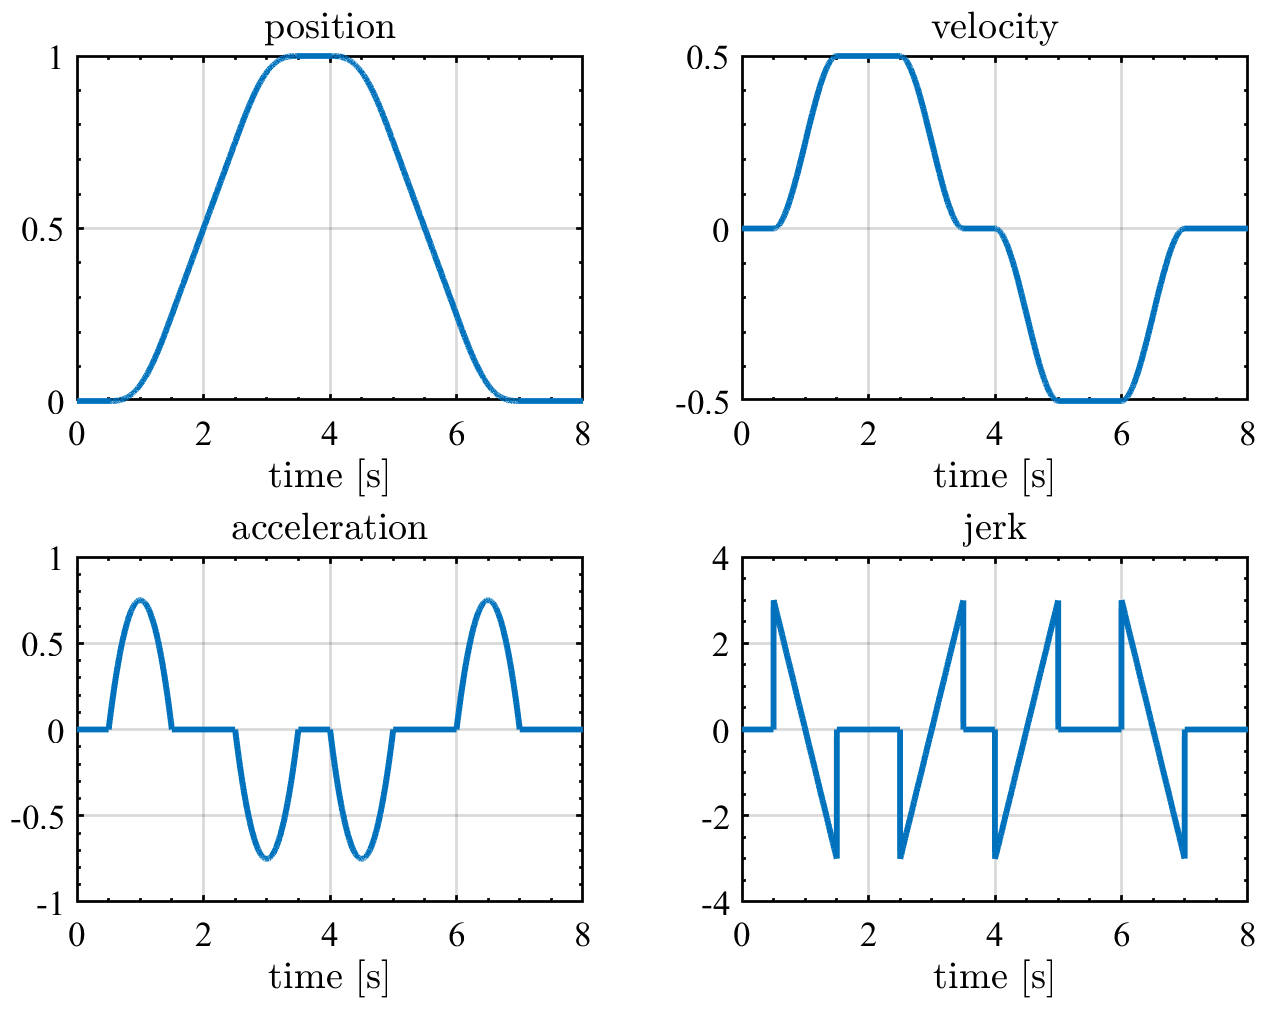
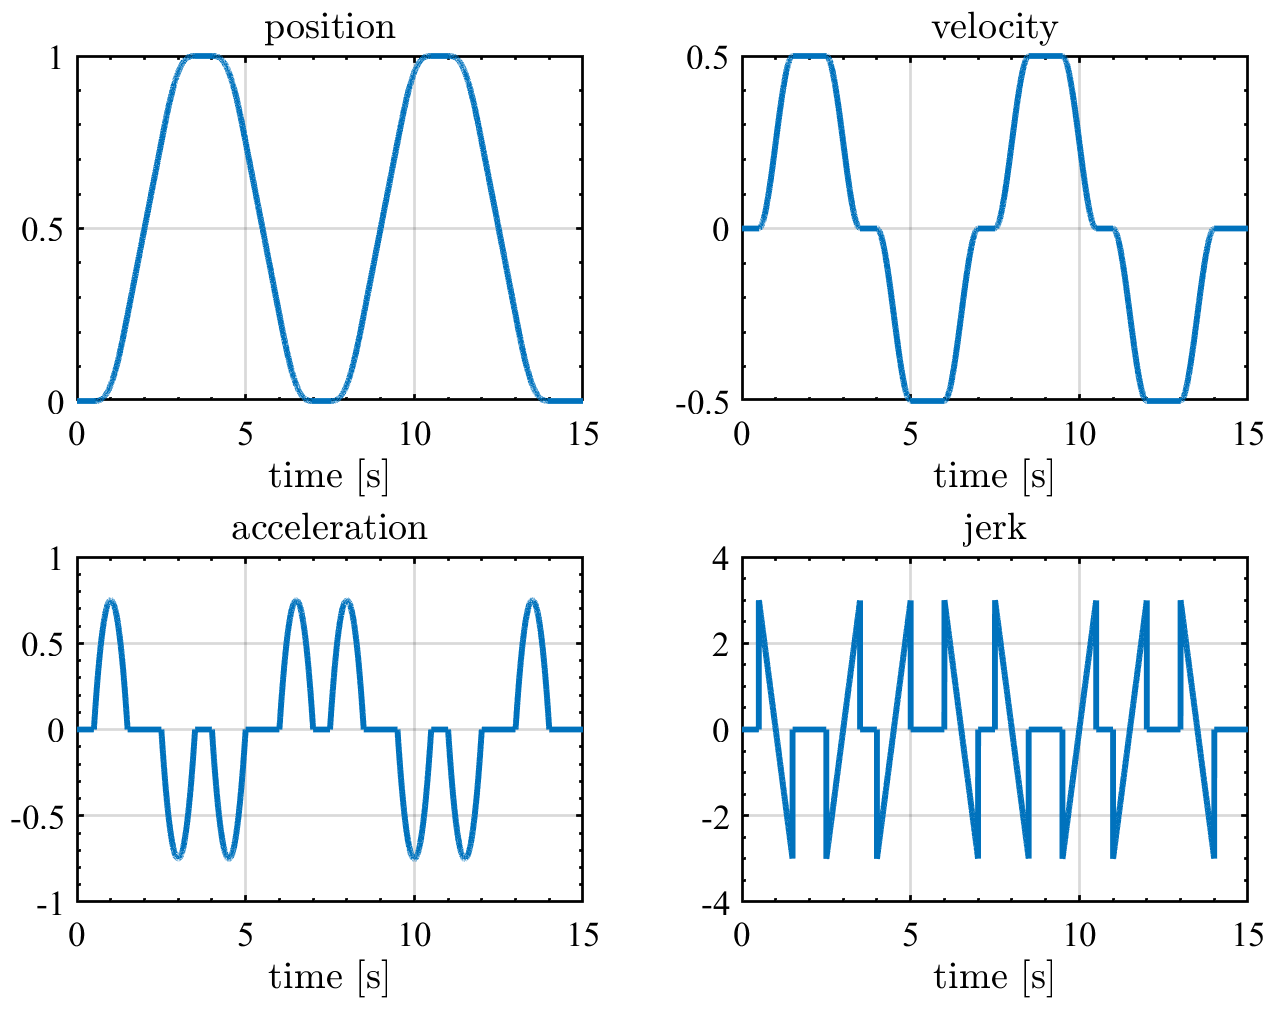
update example

diff --git a/docs/ex2_backandforth_pos.m b/docs/ex2_backandforth_pos.m
@@ -3,22 +3,20 @@ clear; close all;
 trajType = 'pos'; % for given position constraints 
 
 tmove = 1; % moving time
-tdwell = 0.5; % dwelling time
+tdwell = 1; % dwelling time
 % time boundary conditions
 BCt = [tdwell, ... % dwell
     tdwell+tmove, ... % step motion
     tdwell+tmove+tdwell, ... % dwell
     tdwell+tmove+tdwell+tmove,... % step motion
-    tdwell+tmove+tdwell+tmove+tdwell,... % dwell
-    tdwell+tmove+tdwell+tmove+tdwell+tmove,... % step motion
-    tdwell+tmove+tdwell+tmove+tdwell+tmove+tdwell,... % dwell 
-    tdwell+tmove+tdwell+tmove+tdwell+tmove+tdwell+tmove,... % step motion
     ]; 
+BCt = [BCt,BCt+BCt(end)]; % twice
 
 % motion distance
 pmove = 0.3;
 % position boundary conditions
-BCp = [0, pmove, pmove, 0, 0, pmove, pmove, 0];
+BCp = [0, pmove, pmove, 0];
+BCp = [BCp,BCp]; % twice
 
 % polynomial order
 np = 5;
@@ -28,7 +26,7 @@ pBasis = backandforth(trajType,BCt,BCp,np);
 
 %% Plot
 Ts = 1e-3;
-t = 0:Ts:7;
+t = 0:Ts:9;
 y1 = outPolyBasis(pBasis,1,t);
 y2 = outPolyBasis(pBasis,2,t);
 y3 = outPolyBasis(pBasis,3,t);

diff --git a/docs/ex3_backandforth_vel.m b/docs/ex3_backandforth_vel.m
@@ -16,11 +16,13 @@ BCt = [tdwell,... % dwell
     tdwell+tacc+tvel+tdec+tdwell+tacc+tvel,... % const vel
     tdwell+tacc+tvel+tdec+tdwell+tacc+tvel+tdec,... % decelerate
     ];
+BCt = [BCt,BCt+BCt(end)]; % twice
 
 % max velocity
 vmax = 0.5; % m/s
 % velocity boundary conditions
 BCv = [0, vmax, vmax, 0, 0, -vmax, -vmax, 0];
+BCv = [BCv, BCv];
 
 % polynomial order
 np = 5;
@@ -33,7 +35,7 @@ pBasis = backandforth(trajType,BCt,BC,np);
 
 %% Plot
 Ts = 1e-3;
-t = 0:Ts:8;
+t = 0:Ts:15;
 y1 = outPolyBasis(pBasis,1,t);
 y2 = outPolyBasis(pBasis,2,t);
 y3 = outPolyBasis(pBasis,3,t);
